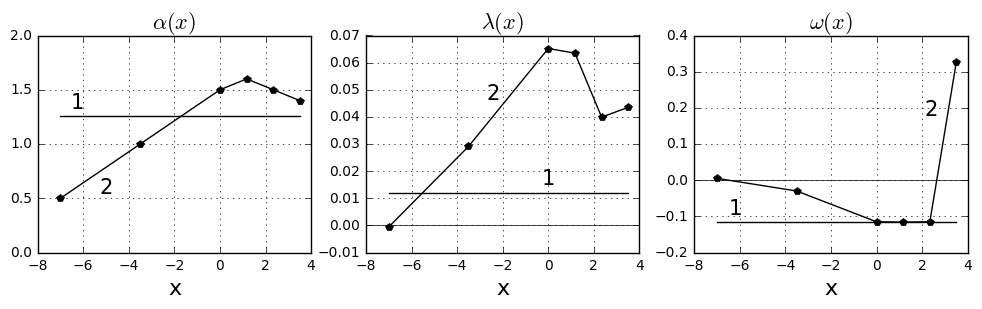
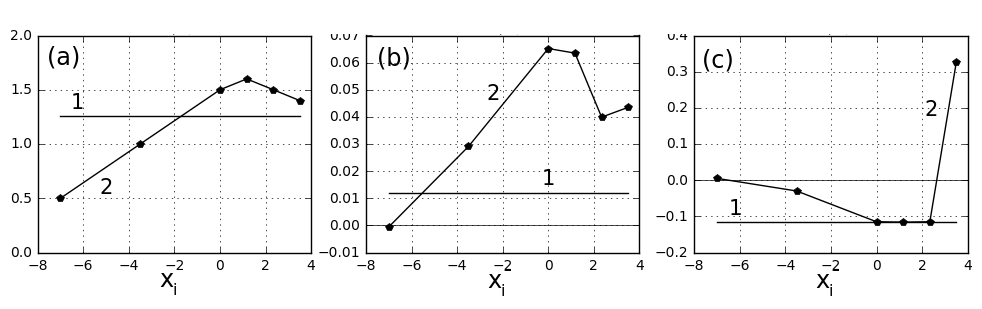
+

diff --git a/ch2_edge.tex b/ch2_edge.tex
@@ -137,7 +137,7 @@
 \begin{equation} \label{lin_eq}
 \frac{\partial \v'}{\partial t} = c_m \frac{\partial \v'}{\partial x} - (\V \nabla) \v' - (\v' \nabla) \V - \nabla p' + \nu \nabla^2 \v'. 
 \end{equation}
-Здесь $p'$ -- пульсационная составляющая давления. Расход $\v'$ равен нулю. Другие уравнения в постановке задачи линейные и для $\v'$ имеют тот же вид, что и для $\v$. 
+Здесь $p'$ -- пульсационная составляющая давления. Расход $\v'$ равен нулю. Другие уравнения в постановке задачи линейные и для $\v'$ имеют тот же вид, что и для $\v$. Задача решается с дополнительными условия симметрии \eqref{sym_eq}, \eqref{per_eq}, которым удовлетворяет поле скорости модельного порыва. 
 
 Линеаризованные относительно возмущений уравнения с некоторыми случайными начальными условиями интегрировались по времени до выхода решения на режим экспоненциального изменения. Обнаружено, что действительно поле скорости $\V$ неустойчиво к малым возмущениям. Растущее возмущение $\v'_1 \sim e^{(\lambda+i\omega)t}$ имеет инкремент нарастания $\lambda=0.012U/R$ и частоту $\omega=0.116U/R$, близкую к частоте колебаний $2\pi/60R/U=0.105U/R$ в решении на сепаратрисе. Что более существенно, поле скорости растущего решения $\v'_1$ качественно повторяет основные особенности поля скорости пульсационной составляющей движения модельного порыва $\v_n$. В качестве подтверждения на рисунке \ref{lin_ls_cmp_pic} представлены мгновенные поля скорости $\v'_1$ и $\v_n$ в продольном сечении $\theta = 0$. Моменты времени подобраны так, что фазы решений совпадают. Также на рисунке \ref{lin_amp_cmp_pic} для сравнения представлены амплитуды $\v_1'$ и $\v_n$ в нескольких сечениях трубы. Нет сомнений, что колебания возникают в результате линейной неустойчивости стационарной составляющей движения. Решение линейной задачи обладает дополнительной симметрией отражения относительно плоскости $\theta = \pi/4$, выражаемой формулой:
 \begin{equation} \label{dop_sym_eq}
@@ -161,42 +161,40 @@
 
 \section{Влияние продольной неоднородности стационарной составляющей движения на форму пульсаций}
 
-Замечено, что в модельном порыве область наибольшей интенсивности пульсаций совпадает с областью резкого изменения скорости на оси трубы (см. рис. \ref{ucl_cmp_img}, \ref{amp_pic}). Аналогичная особенность отмечена в турбулентном порыве \cite{Hof2010}. Можно предположить, что резкое падение скорости на заднем фронте порыва играет существенную роль в процессе поддержания колебаний. Для того, чтобы установить роль продольной неоднородности течения в процессе поддержания колебаний, на устойчивость исследовано несколько полей скорости $\U_i$, однородных вдоль потока, повторяющих среднее поле скорости модельного порыва $\V$ в сечениях трубы $x = x_i$. Значения $x_i$ принадлежат интервалу $(-8,4)$, в котором пульсационная составляющая движения имеет существенную амплитуду. 
+Замечено, что в модельном порыве область наибольшей интенсивности пульсаций совпадает с областью резкого падения скорости на его заднем фронте (см. рис. \ref{ucl_cmp_img}, \ref{amp_pic}). Аналогичная особенность отмечена в турбулентном порыве \cite{Hof2010}. Чтобы оценить роль продольной неоднородности среднего течения в процессе формирования пульсаций, в работе выполнен анализ устойчивости однородных вдоль трубы полей скорости $\U_i = \V\big|_{x=x_i}$, повторяющих среднее поле скорости модельного порыва $\V$ в сечениях трубы $x = x_i$. Значения $x_i$, при которых было выполнено исследование поля скорости $\U_i$, принадлежат интервалу $(-8,4)$, где пульсационная составляющая движения получает энергию от среднего течения и имеет существенную амплитуду. Поля скорости $\U_i$ имеют полосчатую структуру и воспроизводят неоднородность среднего поля скорости по координатам $r$ и $\theta$, но теряют неоднородность среднего течения по координате $x$. Сравнение характеристик устойчивости полей скорости $\V$ и $\U_i$ позволяет делать выводы о роли продольной неоднородности в процессе формирования пульсаций. 
 
-Собственные решения линейной задачи устойчивости однородного вдоль трубы поля скорости могут быть представлены в виде $\v' = \hat \v (r, \theta, t) e^{i \alpha x}$. Подстановка выражения для $\v'$ в уравнение, описывающее эволюцию малых возмущений однородного вдоль трубы поля скорости, позволяет исключить переменную $x$ из уравнений, перейдя к уравнению для $\hat\v$. Уравнение эволюции $\hat \v$ имеет следующий вид:
+Собственные решения линейной задачи устойчивости однородного вдоль трубы поля скорости имеют вид $\v' = Re\left(\hat \v (r, \theta, t) e^{i \alpha x}\right)$, где функция $\hat \v$ имеет комплексные значения, функция $Re(z)$ имеет значение действительно части комплексного числа $z$. Постановка задачи линейной устойчивости однородного вдоль трубы поля скорости формулируется относительно $\hat \v$ и является двумерной (пропадает зависимость от $x$). Задача имеет дополнительный параметр $\alpha > 0$, характеризующий волновое число возмущения, устойчивость к которому анализируется. В этой постановке уравнения движения в системе координат, перемещающейся вдоль трубы со скоростью $c_f$, и уравнение неразрывности имеют вид: 
 \begin{equation*}
-\frac{\partial \hat \v}{\partial t} = i \alpha  c_m \hat \v - (\U_i \hat \nabla) \hat \v - (\hat \v \nabla) \U_i - \hat \nabla \hat p + \nu \hat \nabla^2 \hat \v,
+\frac{\partial \hat \v}{\partial t} = i \alpha  c_f \hat \v - (\U_i \hat \nabla) \hat \v - (\hat \v \nabla) \U_i - \hat \nabla \hat p + \nu \hat \nabla^2 \hat \v,
 \end{equation*}
-где $\hat \nabla = (i\alpha, \partial/\partial r, \partial/r \partial \theta)$нижними индексами $x$ и $\perp$ обозначены проекции соответствующих векторов на ось $x$ и в плоскость, перпендикулярную оси $x$. Все величины, отмеченные крышечкой, комплексные и не зависят от $x$. В постановке задачи также меняет свой вид условие неразрывности:
 \begin{equation*}
-\nabla_{\perp} \cdot \hat \v_{\perp} = - i \alpha \hat v_x, 
+\hat \nabla \cdot \hat \v = 0,
 \end{equation*}
-и снимается условие периодичности вдоль потока \eqref{bc2_eq}. Задача, таким образом, сводится к двумерной постановке с дополнительным параметром $\alpha$. 
+где функция $\hat p = \hat p(r,\theta,t)$ имеет комплексные значения, $p' = \hat p e^{i \alpha x}$ --- пульсационная составляющая давления, оператор $\hat \nabla$ равен: 
+\begin{equation*}
+\hat \nabla = \left( i\alpha, \frac{\partial}{\partial r}, \frac{\partial}{r \partial \theta} \right).
+\end{equation*}
+На стенках трубы ставится условие прилипания. На решение накладываются дополнительные условия симметрии \eqref{sym_eq}, \eqref{per_eq}, при которых найден модельный порыва. Условие периодичности вдоль потока \eqref{bc2_eq} снимается. 
 
 \begin{figure}
 \center{\includegraphics[width=1\linewidth]{cs_lin.png}}
-\caption{Значение волнового числа $\alpha$, инкремента нарастания $\lambda$ и угловой частоты $\omega$ (в системе отсчета порыва) для наиболее быстрорастущего собственного возмущения, развивающегося на стационарной составляющей движения модельного порыва $\V$ (линия 1) и на однородном вдоль трубы поле скорости, повторяющем $\V$ в сечении с координатой $x$ (точки на линии 2).}
+\caption{Значение волнового числа $\alpha$ (a), инкремента нарастания $\lambda$ (b) и угловой частоты $\omega$ (в системе отсчета порыва) (c) для наиболее быстро растущего возмущения поля скорости модельного порыва $\V$ (линия 1) и однородных вдоль потока полей скорости $\U_i$, повторяющих $\V$ в сечении $x = x_i$ (точки на линии 2).}
 \label{cs_lin_pic}
 \end{figure}
 
-На линейную устойчивость исследовано несколько однородных вдоль трубы полей скорости $\U_i$, повторяющих среднее поле скорости модельного порыва $\V$ в одном из поперечных сечений трубы с координатой $x_i$:
-$$
-\U_i=\V(x_i).
-$$
-Все исследованные $\U_i$ в интервале $x_i \in (-8, 4)$ оказались неустойчивы, для каждого из них найдено наиболее неустойчивое собственное возмущение --- собственное возмущение, имеющее наибольшую скорость роста среди всех значений $\alpha$. Наиболее быстро растущее собственное возмущение поля скорости $\U_i$ при фиксированном значении $\alpha$ получено интегрированием случайного начального возмущения до выхода на экспоненциальный режим роста $\sim e^{(\lambda + i\omega) t}$. 
+На устойчивость исследованы поля скорости $\U_i = \V\big|_{x=x_i}$ для $x_i = -7.1,$ $-3.5, 0, 1.2, 2.3, 3.5$.  Для каждого исследованного $\U_i$ среди собственных решений линейной задачи устойчивости с различными значениями волнового числа $\alpha >0$ найдено наиболее быстро растущее (медленно затухающее). Наиболее быстро растущее (медленно затухающее) собственное решение линейной задачи устойчивости поля скорости $\U_i$ при фиксированном значении $\alpha$ получено интегрированием случайного начального возмущения до выхода на экспоненциальный режим роста, $||\hat \v|| \sim e^{(\lambda + i\omega) t}$. 
 
 \begin{figure}
 \center{\includegraphics[width=1\linewidth]{cs_lin_map.png}}
-\caption{В ряду (a) в поперечном сечении изображена амплитуда пульсаций наиболее быстрорастущего возмущения, возникающего на однородном вдоль трубы поле скорости $\U_i$, приведенном в ряду (b). Однородное поле скорости повторяет среднее поле скорости в сечении $x$, указанном под иллюстрациями.}
+\caption{Изолинии амплитуды колебаний для наиболее быстро растущего возмущения однородного вдоль трубы поля скорости $\U_i$ (a) и изолинии продольной компоненты поля скорости $\U_i$ (b), $x_i = 0, 1.2, 2.3$.}
 \label{cs_lin_map_pic}
 \end{figure}
 
-На рисунке \ref{cs_lin_pic} точками отмечены полученные значения волнового числа $\alpha$, инкремента нарастания $\lambda$ и угловой частоты $\omega$ для наиболее быстро растущих собственных возмущений поля скорости $\U_i$, как функции $x_i$. Линия 1 соответствует значениям для наиболее быстрорастущего собственного возмущения, возникающего на стационарной составляющей движения модельного порыва $\V$ непосредственно (длина волны и скорость её перемещения оценены примерно). Угловая частота приведена в системе отсчета, связанной с порывом. Наибольшую скорость роста возмущений демонстрируют сечения в диапазоне $x_i \in [0, 2]$. В этой области пульсационная составляющая движения $\v_n$ достигает наибольшей интенсивности (смотри рисунок \ref{amp_pic}). Однако скорость роста возмущений на $\V$ значительно ниже, что может объясняться перераспределением энергии, передаваемой возмущениям в сеченях с координатами $x_i \in [0, 2]$, в те области, где средний профиль скорости имеет более устойчивую форму. Наиболее быстро растущие возмущения поля скорости $\U_i$ при $x_i \in [0,2]$ повторяют форму возмущений, наблюдаемых в модельном порыве. В частности, их волновые числа и угловые частоты близки к соответствующим значениям как для малых возмущений, возникающих на $\V$, так и для пульсационной составляющей движения модельного порыва $\v_n$. Сравнение распределений амплитуды пульсаций в поперечном сечении, возникающих на~$\U_i$ при $x_i \in [0,2]$ (смотри рисунок \ref{cs_lin_map_pic}), и возникающих в модельном порыве (смотри рисунок \ref{lin_amp_cmp_pic}), также демонстрируют качественное соответствие этих решений. Однако уже при $x \approx 3.5$ среднее поле скорости стационарного течения искажается так, что на соответствующем ему $\U_i$ наиболее быстро растущим оказывается возмущение, имеющее качественно другую форму. С этим, в частности, связано резкое отличие значения угловой частоты $\omega$ для этого решения от соответствующих значений, возникающих при меньших $x_i$ (смотри рисунок \ref{cs_lin_pic}). 
+На рисунке \ref{cs_lin_pic} приведены полученные значения волнового числа $\alpha$, инкремента нарастания $\lambda$ и угловой частоты $\omega$ для наиболее быстро растущих (медленно затухающих) возмущений поля скорости $\U_i$, как функции $x_i$ (точки на линии 2). Также на рисунке (линией 1) приведены характеристики наиболее быстро растущего возмущения стационарной составляющей поля скорости модельного порыва $\V$ (значение длины волны приблизительное). Угловая частота приведена в системе отсчета, перемещающейся со скоростью порыва. Поля скорости $\U_i$ при $x_i \in (-4,4)$ оказываются неустойчивыми, причем скорость роста наиболее быстро растущего возмущения оказывается выше скорости роста возмущений стационарной составляющей движения модельного порыва $\V$. Наибольшей скоростью роста обладают возмущения полей скорости $\U_i$ при $x_i \in (0, 2)$. Следствием этого факта может быть то, что именно при $x \in (0,2)$ пульсационная составляющая движения $\v_n$ достигает наибольшей амплитуды (см. рис. \ref{amp_pic}). Наиболее быстро растущие  возмущения полей скорости $\U_i$ при $x_i \in (0,3)$ повторяют форму пульсационной составляющей движения модельного порыва. В частности, их волновые числа и угловые частоты близки к соответствующим значениям как для наиболее быстро растущих возмущений поля скорости $\V$, так и для пульсационной составляющей движения модельного порыва $\v_n$. Распределения по сечению трубы амплитуды колебаний для наиболее быстро растущих возмущений полей скорости $\U_i$ при $x_i \in (0,3)$, приведенные на рисунке \ref{cs_lin_map_pic}, повторяют распределение амплитуды колебаний в модельном порыве (см. рис. \ref{puls_cs_pic}).
 
-Таким образом, может быть сделан вывод о том, что продольная неоднородность стационарной составляющей движения модельного порыва не является определяющим фактором при формировании пульсационной составляющей движения. Возможно, резкое изменение скорости в центральной части трубы является следствием образования пульсаций, по крайней мере, для модельного порыва. 
+Если при $x_i \in (0,3)$ наиболее быстро растущее возмущения полей скорости $\U_i$ повторяют качественные особенности пульсационной составляющей движения модельного порыва, то уже при $x_i = 3.5$ наиболее быстро растущим возмущением поля скорости $\U_i$ оказывается возмущение принципиально другой формы. С этим, в частности, связано резкое отличие значения угловой частоты $\omega$, полученного при $x_i = 3.5$, от значений, полученных при меньших $x_i$ (см. рис. \ref{cs_lin_pic}). 
 
-\section{Механизм образования стационарных продольных вихрей}
-
+Среди исследованных однородных вдоль трубы полей скорости, имеющих полосчатую структур, найдены неустойчивые, наиболее быстро растущие возмущения которых воспроизводят как качественные, так и количественные характеристики пульсационной составляющей движения модельного порыва и имеют даже большую скорость роста, чем наиболее быстро растущие возмущения средней составляющей движения модельного порыва. Таким образом, может быть сделан вывод, что продольная неоднородность стационарной составляющей движения не является необходимым условием для возникновения пульсаций и не оказывает существенного влияния на их форму. Образование пульсаций связано с неоднородностью стационарной составляющей движения в поперечной плоскости. 
 
 
 \section{Взаимодействие между компонентами движения модельного порыва}
